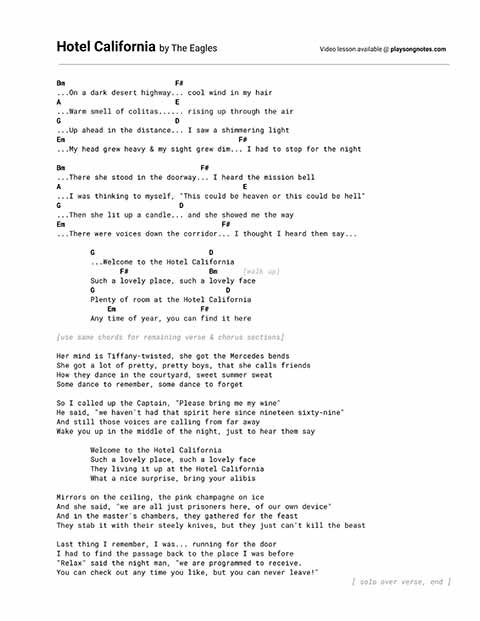
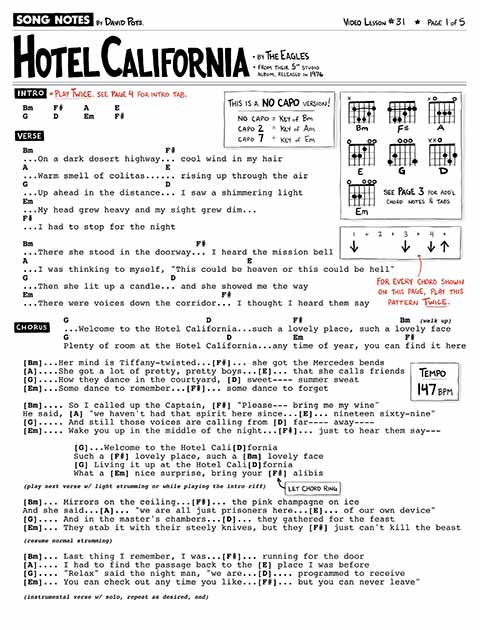
Adds hotel california musicnotes links

Changed region(s): [[0.0312, 0.0, 0.9688, 0.9485], [0.9062, 0.9179, 0.9375, 0.9485]]

diff --git a/_lessons/31 [Eagles] Hotel California.md b/_lessons/31 [Eagles] Hotel California.md
@@ -10,8 +10,9 @@ tags: [Full Song Lesson, 1970s, Classic Rock, Key of D, Pinky Stretch]
 slug: "31"
 redirect_from:
   - /songs/eagles-hotel-california/
-pdf_version: copyright
-pdf_numpages: 4
+pdf_version: musicnotes
+pdf_numpages: 5
+musicnotes_url: https://www.musicnotes.com/l/j6dMS
 patreon_lesson_available: true
 patreon_lesson_url: https://www.patreon.com/posts/20970359
 ---
@@ -40,64 +41,68 @@ Video timestamps:
 
 ## Lyrics with chords
 
-    Bm                          F#
-    ...On a dark desert highway... cool wind in my hair
-    A                           E
-    ...Warm smell of colitas...... rising up through the air
-    G                           D
-    ...Up ahead in the distance... I saw a shimmering light
-    Em                                         F#
-    ...My head grew heavy & my sight grew dim... I had to stop for the night
+    See page 1 of my sheet music for all of the lyrics & chords, shown together.
 
-    Bm                                F#
-    ...There she stood in the doorway... I heard the mission bell
-    A                                           E
-    ...I was thinking to myself, "This could be heaven or this could be hell"
-    G                            D
-    ...Then she lit up a candle... and she showed me the way
-    Em                                     F#
-    ...There were voices down the corridor... I thought I heard them say...
+<!-- Bm                          F#
+...On a dark desert highway... cool wind in my hair
+A                           E
+...Warm smell of colitas...... rising up through the air
+G                           D
+...Up ahead in the distance... I saw a shimmering light
+Em                                         F#
+...My head grew heavy & my sight grew dim... I had to stop for the night
 
-            G                           D
-            ...Welcome to the Hotel California
-                   F#                   Bm      (walk up)
-            Such a lovely place, such a lovely face
-            G                               D
-            Plenty of room at the Hotel California
-                Em                    F#
-            Any time of year, you can find it here
+Bm                                F#
+...There she stood in the doorway... I heard the mission bell
+A                                           E
+...I was thinking to myself, "This could be heaven or this could be hell"
+G                            D
+...Then she lit up a candle... and she showed me the way
+Em                                     F#
+...There were voices down the corridor... I thought I heard them say...
 
-    Her mind is Tiffany-twisted, she got the Mercedes bends
-    She got a lot of pretty, pretty boys, that she calls friends
-    How they dance in the courtyard, sweet summer sweat
-    Some dance to remember, some dance to forget
+        G                           D
+        ...Welcome to the Hotel California
+               F#                   Bm      (walk up)
+        Such a lovely place, such a lovely face
+        G                               D
+        Plenty of room at the Hotel California
+            Em                    F#
+        Any time of year, you can find it here
 
-    So I called up the Captain, "Please bring me my wine"
-    He said, "we haven't had that spirit here since nineteen sixty-nine"
-    And still those voices are calling from far away
-    Wake you up in the middle of the night, just to hear them say
+Her mind is Tiffany-twisted, she got the Mercedes bends
+She got a lot of pretty, pretty boys, that she calls friends
+How they dance in the courtyard, sweet summer sweat
+Some dance to remember, some dance to forget
 
-            Welcome to the Hotel California
-            Such a lovely place, such a lovely face
-            They living it up at the Hotel California
-            What a nice surprise, bring your alibis
+So I called up the Captain, "Please bring me my wine"
+He said, "we haven't had that spirit here since nineteen sixty-nine"
+And still those voices are calling from far away
+Wake you up in the middle of the night, just to hear them say
 
-    Mirrors on the ceiling, the pink champagne on ice
-    And she said, "we are all just prisoners here, of our own device"
-    And in the master's chambers, they gathered for the feast
-    They stab it with their steely knives, but they just can't kill the beast
+        Welcome to the Hotel California
+        Such a lovely place, such a lovely face
+        They living it up at the Hotel California
+        What a nice surprise, bring your alibis
 
-    Last thing I remember, I was... running for the door
-    I had to find the passage back to the place I was before
-    "Relax" said the night man, "we are programmed to receive.
-    You can check out any time you like, but you can never leave!"
+Mirrors on the ceiling, the pink champagne on ice
+And she said, "we are all just prisoners here, of our own device"
+And in the master's chambers, they gathered for the feast
+They stab it with their steely knives, but they just can't kill the beast
 
-    [ instrumental verse w/ solo, repeat as desired, end ]
+Last thing I remember, I was... running for the door
+I had to find the passage back to the place I was before
+"Relax" said the night man, "we are programmed to receive.
+You can check out any time you like, but you can never leave!"
+
+[ instrumental verse w/ solo, repeat as desired, end ] -->
 
 
 ## Chord Progressions
 
-Intro & verse:
+    See page 2 of my sheet music for the chord progression this song uses, both with no capo (key of Bm) as well as capo 2nd fret (key of Am) and capo 7th fret (key of Em).
+
+<!-- Intro & verse:
 
     Bm ........ F# ....... A  ....... E  .......
     G  ........ D  ....... Em ....... F# .......
@@ -105,7 +110,7 @@ Intro & verse:
 Chorus:
 
     G ....... D ....... F# ....... Bm .......
-    G ....... D ....... Em ....... F# .......
+    G ....... D ....... Em ....... F# ....... -->
 
 ## All chords needed
 
@@ -151,80 +156,81 @@ A variations:
 
 ## Intro riff
 
+    See page 4 of my sheet music for the complete intro tab.
 
-    E –––2–––––––––––––––––––––––0–––2––––
-    B –––3–––––––––––––––––––––––3–––3––––
-    G –––4–––––––––––––––––––––––4–––4––––
-    D –––4–––––––––––––––––––––––4–––4––––
-    A –––2–––––––––––––––––––––––2–––2––––
-    E ––––––––––––––––––––––––––––––––––––
-         1 + 2 + 3 + 4 + 1 + 2 + 3 + 4 +
-         Bm
+<!-- E –––2–––––––––––––––––––––––0–––2––––
+B –––3–––––––––––––––––––––––3–––3––––
+G –––4–––––––––––––––––––––––4–––4––––
+D –––4–––––––––––––––––––––––4–––4––––
+A –––2–––––––––––––––––––––––2–––2––––
+E ––––––––––––––––––––––––––––––––––––
+     1 + 2 + 3 + 4 + 1 + 2 + 3 + 4 +
+     Bm
 
-    E –––2–––––––––––––––0––––––––––––––––
-    B –––2–––––––––––––––2––––––––––––––––
-    G –––3–––––––––––––––3––––––––––––––––
-    D –––4–––––––––––––––4––––––––––––––––
-    A –––4––––––––––––––––––––––––––––––––
-    E –––2––––––––––––––––––––––––––––––––
-         1 + 2 + 3 + 4 + 1 + 2 + 3 + 4 +
-         F#
+E –––2–––––––––––––––0––––––––––––––––
+B –––2–––––––––––––––2––––––––––––––––
+G –––3–––––––––––––––3––––––––––––––––
+D –––4–––––––––––––––4––––––––––––––––
+A –––4––––––––––––––––––––––––––––––––
+E –––2––––––––––––––––––––––––––––––––
+     1 + 2 + 3 + 4 + 1 + 2 + 3 + 4 +
+     F#
 
-    E –––0––––––––––––––––––––––––––––––––
-    B –––0––––––––––––––––––––––––––––––––
-    G –––2–––––––––––––––2––––––––––––––––
-    D –––2–––––––––––––––––––––––2––––––––
-    A –––0––––––––––––––––––––––––––––––––
-    E ––––––––––––––––––––––––––––––––––––
-         1 + 2 + 3 + 4 + 1 + 2 + 3 + 4 +
-         Asus2
+E –––0––––––––––––––––––––––––––––––––
+B –––0––––––––––––––––––––––––––––––––
+G –––2–––––––––––––––2––––––––––––––––
+D –––2–––––––––––––––––––––––2––––––––
+A –––0––––––––––––––––––––––––––––––––
+E ––––––––––––––––––––––––––––––––––––
+     1 + 2 + 3 + 4 + 1 + 2 + 3 + 4 +
+     Asus2
 
-    E –––0–––––––––––––––2––––––––––––––––
-    B –––0–––––––––––––––0––––––––––––––––
-    G –––1–––––––––––––––1––––––––––––––––
-    D –––2–––––––––––––––2––––––––––––––––
-    A –––2–––––––––––––––2––––––––––––––––
-    E –––0–––––––––––––––0–––––––0–––2––––
-         1 + 2 + 3 + 4 + 1 + 2 + 3 + 4 +
-         E
+E –––0–––––––––––––––2––––––––––––––––
+B –––0–––––––––––––––0––––––––––––––––
+G –––1–––––––––––––––1––––––––––––––––
+D –––2–––––––––––––––2––––––––––––––––
+A –––2–––––––––––––––2––––––––––––––––
+E –––0–––––––––––––––0–––––––0–––2––––
+     1 + 2 + 3 + 4 + 1 + 2 + 3 + 4 +
+     E
 
-    E –––3––––––––––––––––––––––––––––––––
-    B –––0––––––––––––––––––––––––––––––––
-    G –––0––––––––––––––––––––––––––––––––
-    D –––0–––––––––––––––––––––––––––0––––
-    A –––2–––––––––––––––––––––––0h2––––––
-    E –––3–––––––––––––––––––3––––––––––––
-         1 + 2 + 3 + 4 + 1 + 2 + 3 + 4 +
-         G
+E –––3––––––––––––––––––––––––––––––––
+B –––0––––––––––––––––––––––––––––––––
+G –––0––––––––––––––––––––––––––––––––
+D –––0–––––––––––––––––––––––––––0––––
+A –––2–––––––––––––––––––––––0h2––––––
+E –––3–––––––––––––––––––3––––––––––––
+     1 + 2 + 3 + 4 + 1 + 2 + 3 + 4 +
+     G
 
-    E –––2––––––––––––––––––––––––––––––––
-    B –––3––––––––––––––––––––––––––––––––
-    G –––2––––––––––––––––––––––––––––––––
-    D –––0–––––––––––––––4–––––––0––––––––
-    A ––––––––––––––––––––––––––––––––––––
-    E ––––––––––––––––––––––––––––––––––––
-         1 + 2 + 3 + 4 + 1 + 2 + 3 + 4 +
-         D
+E –––2––––––––––––––––––––––––––––––––
+B –––3––––––––––––––––––––––––––––––––
+G –––2––––––––––––––––––––––––––––––––
+D –––0–––––––––––––––4–––––––0––––––––
+A ––––––––––––––––––––––––––––––––––––
+E ––––––––––––––––––––––––––––––––––––
+     1 + 2 + 3 + 4 + 1 + 2 + 3 + 4 +
+     D
 
-    E –––0––––––––––––––––––––––––––––––––
-    B –––0––––––––––––––––––––––––––––––––
-    G –––0––––––––––––––––––––––––––––––––
-    D –––2––––––––––––––/4–––––––2––––––––
-    A –––2––––––––––––––––––––––––––––––––
-    E –––0––––––––––––––––––––––––––––––––
-         1 + 2 + 3 + 4 + 1 + 2 + 3 + 4 +
-         Em
+E –––0––––––––––––––––––––––––––––––––
+B –––0––––––––––––––––––––––––––––––––
+G –––0––––––––––––––––––––––––––––––––
+D –––2––––––––––––––/4–––––––2––––––––
+A –––2––––––––––––––––––––––––––––––––
+E –––0––––––––––––––––––––––––––––––––
+     1 + 2 + 3 + 4 + 1 + 2 + 3 + 4 +
+     Em
 
-    E –––2–––––––––––––––0––––––––––––––––
-    B –––2–––––––––––––––2––––––––––––––––
-    G –––3–––––––––––––––3––––––––––––––––
-    D –––4–––––––––––––––4––––––––––––––––
-    A –––4––––––––––––––––––––––––––––––––
-    E –––2––––––––––––––––––––––––––––––––
-         1 + 2 + 3 + 4 + 1 + 2 + 3 + 4 +
-         F#
+E –––2–––––––––––––––0––––––––––––––––
+B –––2–––––––––––––––2––––––––––––––––
+G –––3–––––––––––––––3––––––––––––––––
+D –––4–––––––––––––––4––––––––––––––––
+A –––4––––––––––––––––––––––––––––––––
+E –––2––––––––––––––––––––––––––––––––
+     1 + 2 + 3 + 4 + 1 + 2 + 3 + 4 +
+     F# -->
 
-## Chorus walk-up
+<!-- ## Chorus walk-up
 
     E –––2–––––––––––––––––––––––––––––––3–––––––
     B –––3–––––––2–––––––3–––––––––––––––0–––––––
@@ -253,7 +259,7 @@ A variations:
     D ––––2–––––––/5––––––4––––––2––––––0––––––––
     A ––––2––––––––––––––––––––––––––––––––––––––
     E ––––0––––––––––––––––––––––––––––––––––––––
-          Em
+          Em -->
 
 
 ## Good luck!
